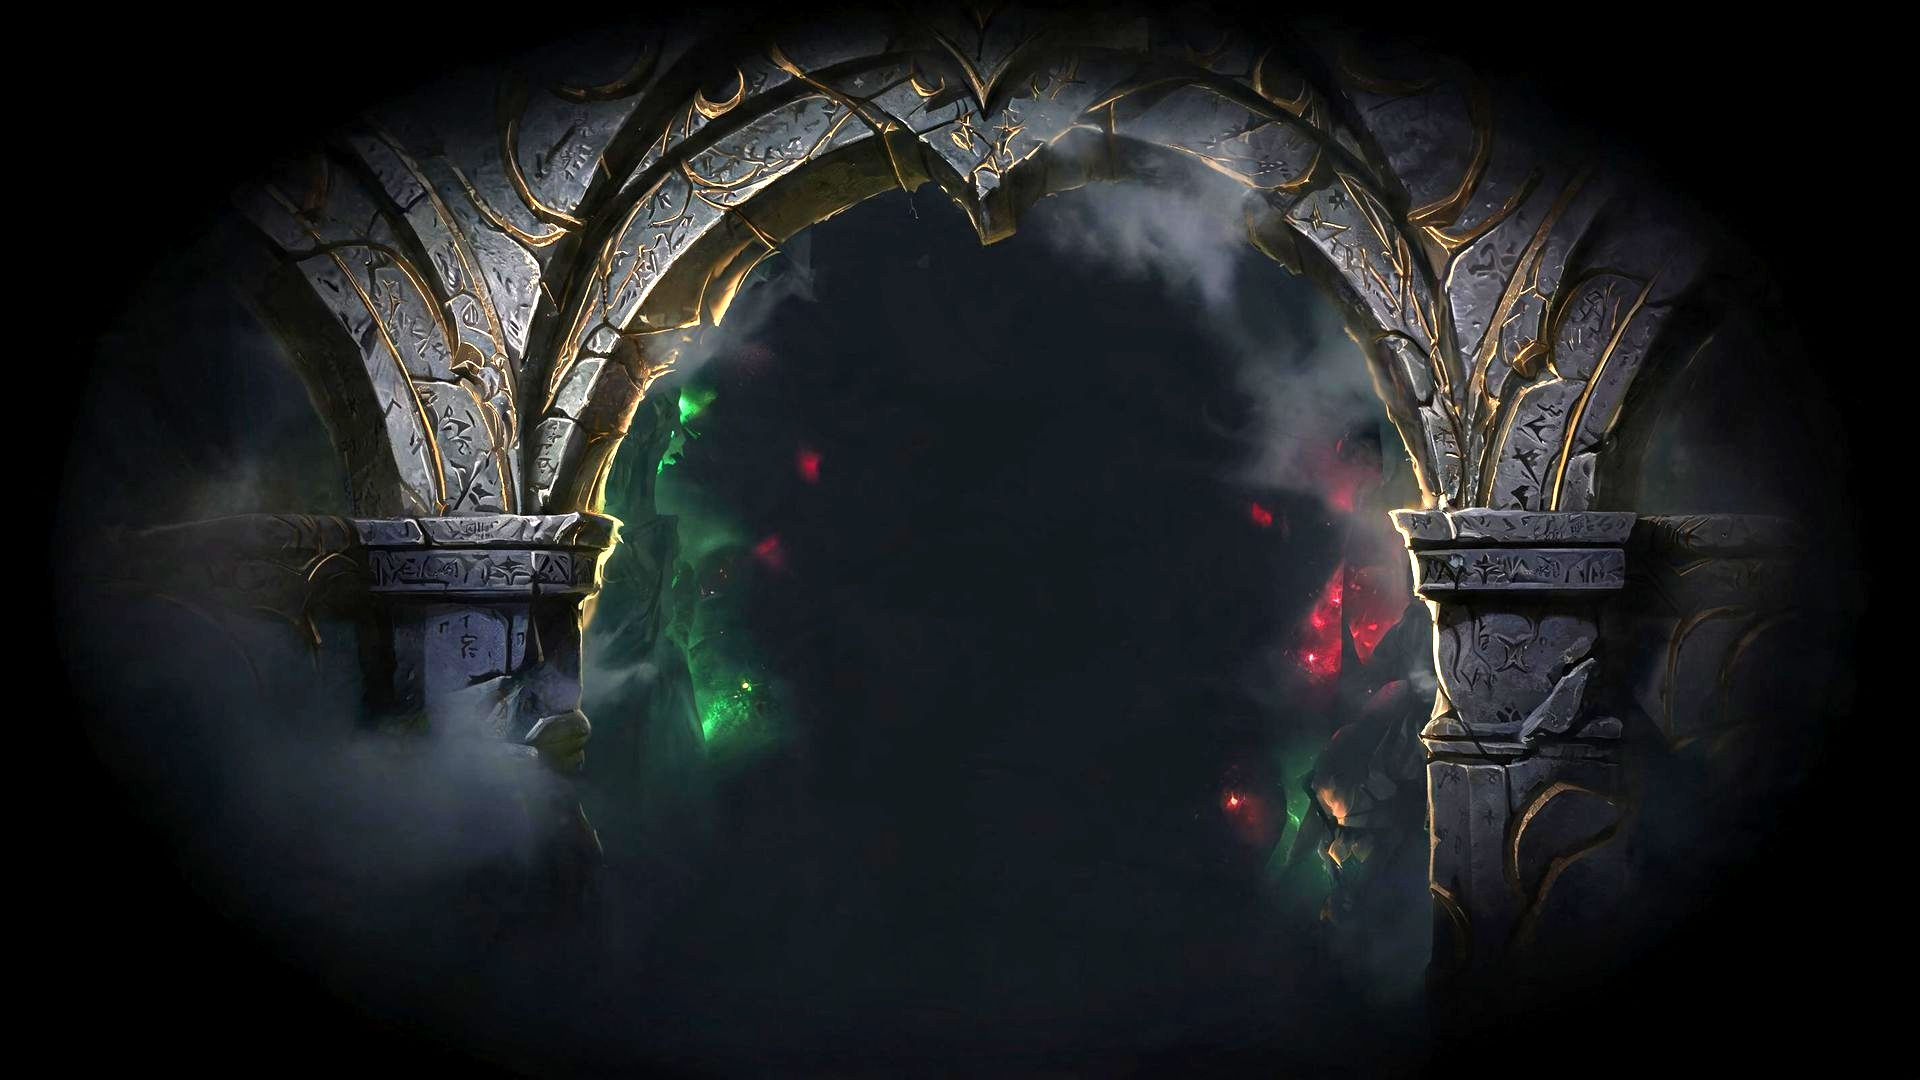
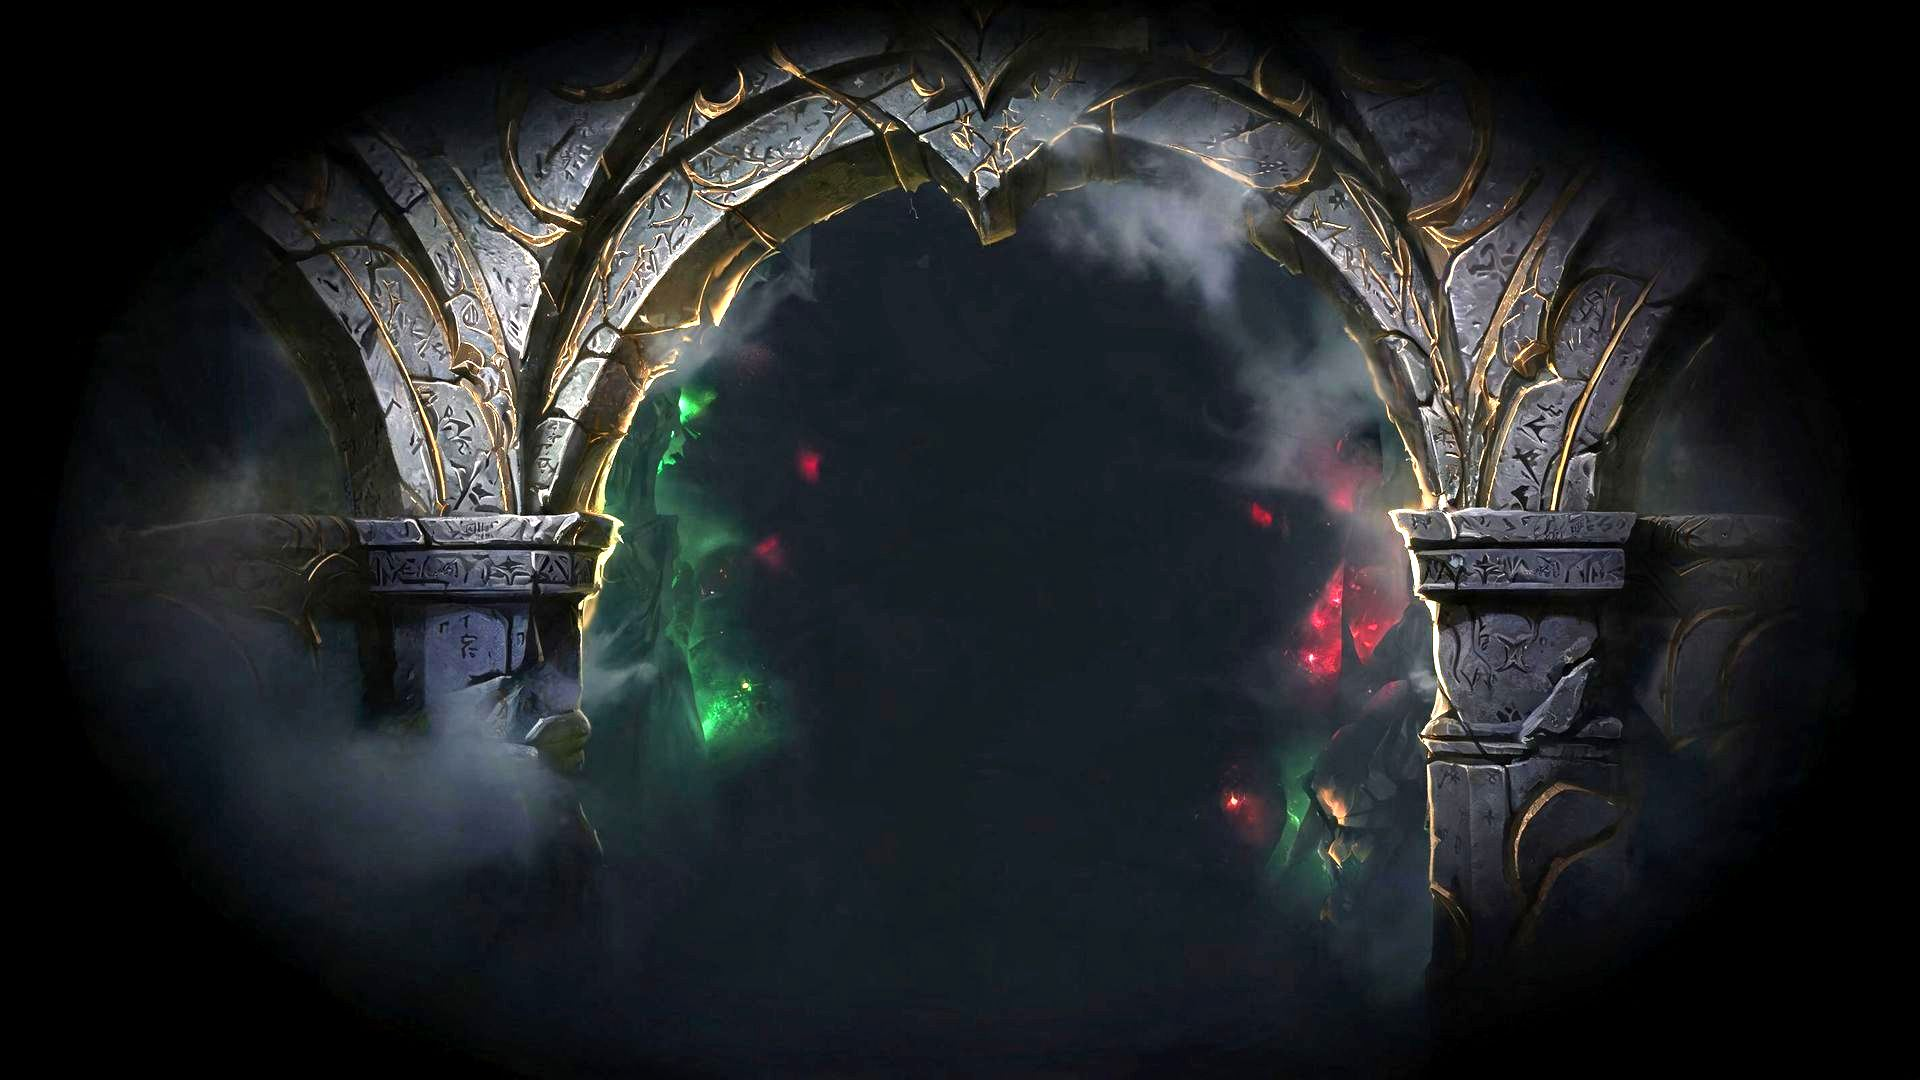
Volna 1.2.2: seamless chat, Main/Subroom naming, brighter backdrop, screen share fallbacks

diff --git a/voice-app/public/entry.js b/voice-app/public/entry.js
@@ -208,11 +208,36 @@
       }
       const pub = Object.assign({}, publish || {}, {
         screenShareEncoding: { maxBitrate: profile.bitrate, maxFramerate: profile.res.frameRate },
+        // Слои симулкаста: зритель сам выберет 720p/1080p/1440p в зависимости от экрана и канала
+        screenShareSimulcastLayers: [
+          { width: 1280, height: 720, encoding: { maxBitrate: 1500000, maxFramerate: 30 } },
+          { width: 1920, height: 1080, encoding: { maxBitrate: 3500000, maxFramerate: 60 } },
+          { width: 2560, height: 1440, encoding: { maxBitrate: 6000000, maxFramerate: 60 } },
+        ],
         degradationPreference: profile.degrade || 'maintain-resolution',
       });
       lastScreenProfile = profile.label;
       toast('Показ экрана: ' + profile.label);
-      return setScreen(on, cap, pub);
+      try {
+        return await setScreen(on, cap, pub);
+      } catch (e) {
+        // Запасные варианты: браузер или сервер могут не принять симулкаст/системный звук.
+        // Тогда показываем экран простым способом — главное, чтобы демонстрация включилась.
+        try {
+          const simple = Object.assign({}, pub);
+          delete simple.screenShareSimulcastLayers;
+          return await setScreen(on, cap, simple);
+        } catch (e2) {
+          if (cap.audio) {
+            const simpleNoAudio = Object.assign({}, pub, { audio: false });
+            delete simpleNoAudio.screenShareSimulcastLayers;
+            toast('Системный звук недоступен — показываю без него');
+            return await setScreen(on, Object.assign({}, cap, { audio: false }), simpleNoAudio);
+          }
+          toast('Не удалось включить демонстрацию: ' + ((e && e.message) || e), 'error');
+          throw e;
+        }
+      }
     };
   }
 
@@ -376,7 +401,7 @@
         if (hint) hint.textContent = '';
         // имя комнаты для человека: подкомната и текстовая комната выглядят понятно
         const title = $('#roomTitle');
-        if (title) title.textContent = shortName(currentRoom());
+        if (title) title.textContent = 'Volna';
         // В чате сразу видно, чей он: общей комнаты или конкретной подкомнаты
         const chatTitle = $('#chatTitle');
         if (chatTitle) {
@@ -672,6 +697,45 @@
     el.classList.toggle('hidden', !on);
     clearTimeout(SWITCH.timer);
     if (on) SWITCH.timer = setTimeout(() => switchOverlay(false), 9000);
+  }
+
+  /* ---- 6.1a. Счётчик участников без постоянного «до N» ---- */
+
+  const CAP = { max: 0 };
+
+  function pluralPeople(n) {
+    const mod10 = n % 10;
+    const mod100 = n % 100;
+    if (mod10 === 1 && mod100 !== 11) return 'участник';
+    if (mod10 >= 2 && mod10 <= 4 && (mod100 < 12 || mod100 > 14)) return 'участника';
+    return 'участников';
+  }
+
+  /** В шапке только число людей; о лимите говорим лишь когда он достигнут. */
+  function tidyRoomMeta() {
+    const el = $('#roomMeta');
+    if (!el) return;
+    const text = String(el.textContent || '');
+    const found = text.match(/(\d+)/);
+    if (!found) return;
+    const count = Number(found[1]);
+    let short = count + ' ' + pluralPeople(count);
+    if (CAP.max && count >= CAP.max) short += ' · комната заполнена';
+    if (text !== short) el.textContent = short;
+  }
+
+  function watchRoomMeta() {
+    try {
+      fetch('/api/config').then((r) => r.json()).then((cfg) => {
+        CAP.max = Number(cfg && cfg.maxParticipants) || 0;
+        tidyRoomMeta();
+      }).catch(() => undefined);
+    } catch (e) { /* не критично */ }
+
+    const el = $('#roomMeta');
+    if (!el || !('MutationObserver' in window)) return;
+    new MutationObserver(tidyRoomMeta).observe(el, { childList: true, characterData: true, subtree: true });
+    tidyRoomMeta();
   }
 
   /* ---- 6.1. Имя хоста: на машине с сервером по умолчанию «Admin» ---- */
@@ -1292,6 +1356,7 @@
       img.alt = String(name || '');
       img.className = 'chat-img';
       img.loading = 'lazy';
+      img.title = 'Двойной клик — открыть крупно';
       row.append(img);
     }
     // ссылка живёт, пока открыт чат; освобождаем при закрытии вкладки
@@ -1402,6 +1467,54 @@
     }
   }
 
+
+  /* ---- 6.6b. Увеличение картинок по двойному клику ---- */
+
+  function openLightbox(src, alt) {
+    let box = document.getElementById('lightbox');
+    if (!box) {
+      box = document.createElement('div');
+      box.id = 'lightbox';
+      box.className = 'lightbox hidden';
+      box.innerHTML = '<img alt=""><button class="lightbox-close" type="button" aria-label="Закрыть">✕</button>';
+      document.body.append(box);
+      box.addEventListener('click', (e) => {
+        const target = e.target;
+        if (target === box || (target.classList && target.classList.contains('lightbox-close'))) {
+          box.classList.add('hidden');
+        }
+      });
+      document.addEventListener('keydown', (e) => {
+        if (e.key === 'Escape') box.classList.add('hidden');
+      });
+    }
+    const img = box.querySelector('img');
+    if (img) {
+      img.src = src;
+      img.alt = alt || '';
+    }
+    box.classList.remove('hidden');
+  }
+
+  function bindZoom() {
+    // Картинки в чате — во весь экран; демонстрация экрана — двойной клик на полноэкранный режим
+    document.addEventListener('dblclick', (e) => {
+      const img = e.target && e.target.closest ? e.target.closest('.chat-img') : null;
+      if (img && img.src) {
+        e.preventDefault();
+        openLightbox(img.src, img.alt);
+        return;
+      }
+      const stage = e.target && e.target.closest ? e.target.closest('#stageVideo') : null;
+      if (stage) {
+        e.preventDefault();
+        try {
+          if (document.fullscreenElement) document.exitFullscreen();
+          else if (stage.requestFullscreen) stage.requestFullscreen();
+        } catch (err) { /* браузер может запретить */ }
+      }
+    });
+  }
 
   /* ---- 6.5. Главное меню ---- */
 
@@ -1745,15 +1858,20 @@
   }
 
   function displayName(id) {
-    return roomAlias(id) || (String(id) === 'main' ? 'Главная' : prettyName(id));
+    return roomAlias(id) || shortName(id);
   }
 
-  /** Короткое имя для узких мест интерфейса: «Главная» или имя подкомнаты. */
+  /** Короткое имя для узких мест: «Main» или «Subroom N» по порядку в списке. */
   function shortName(id) {
     const alias = roomAlias(id);
     if (alias) return alias;
-    if (isSubRoom(id)) return String(id).split(SUB_SEP).pop();
-    return String(id || 'main') === 'main' ? 'Главная' : String(id);
+    if (isSubRoom(id)) {
+      const parent = parentOf(id);
+      const name = String(id).split(SUB_SEP).pop();
+      const index = subsOf(parent).indexOf(name);
+      return 'Subroom ' + (index >= 0 ? index + 1 : 1);
+    }
+    return String(id) === 'main' ? 'Main' : String(id);
   }
 
   /** Поле «новая подкомната» прямо в списке комнат: без диалогов и перезагрузок. */
@@ -1960,6 +2078,23 @@
   /* ═══════════ 5. Запуск ═══════════ */
   function initEntry() {
     document.documentElement.dataset.volnaEntry = '1'; // отметка для selftest.html и отладки
+    // диагностика демонстрации экрана: только по ?debug=1
+    try {
+      if (/[?&]debug=1/.test(location.search)) {
+        window.addEventListener('unhandledrejection', (e) => {
+          window.__lastRejection = String((e.reason && e.reason.message) || e.reason);
+        });
+        const gdm = navigator.mediaDevices && navigator.mediaDevices.getDisplayMedia;
+        if (gdm) {
+          navigator.mediaDevices.getDisplayMedia = function (...args) {
+            return gdm.apply(this, args).catch((err) => {
+              window.__gdmError = String(err && err.name) + ': ' + String(err && err.message);
+              throw err;
+            });
+          };
+        }
+      }
+    } catch (e) { /* не критично */ }
     watchJoinScreen();
     guardDoubleJoin();
     bindBanner();
@@ -1967,6 +2102,8 @@
     bindMenu();
     bindChatFiles();
     bindSubroomActions();
+    bindZoom();
+    watchRoomMeta();
     // Чат виден сразу: он часть комнаты, а не спрятанная за кнопкой панель
     if (store.get('chat', '1') !== '0') chatShow(true);
     loadBooks();

diff --git a/voice-app/public/styles.css b/voice-app/public/styles.css
@@ -29,7 +29,7 @@ body{
   font:15px/1.45 var(--font-ui);
   background:
     radial-gradient(1200px 700px at 12% -10%, rgba(142,255,3,.12), transparent 62%),
-    linear-gradient(rgba(5,7,4,.28), rgba(5,7,4,.58)),
+    linear-gradient(rgba(5,7,4,.16), rgba(5,7,4,.40)),
     url('bg/kadran.jpg') center/cover no-repeat fixed,
     var(--bg);
   -webkit-font-smoothing:antialiased;
@@ -48,8 +48,9 @@ button,input,select{font:inherit;color:inherit}
 .join{min-height:100dvh;display:grid;place-items:center;padding:24px}
 .join-card{
   width:min(520px,100%);display:grid;gap:16px;padding:26px;
-  background:linear-gradient(180deg,rgba(255,255,255,.025),transparent 45%),var(--panel);
+  background:linear-gradient(180deg,rgba(255,255,255,.03),transparent 45%),rgba(10,14,10,.76);
   border:1px solid var(--line);border-radius:20px;box-shadow:var(--shadow);
+  backdrop-filter:blur(10px);-webkit-backdrop-filter:blur(10px);
 }
 .brand{display:flex;align-items:center;gap:12px}
 .logo{width:40px;height:40px;flex:none;color:var(--accent);fill:currentColor}
@@ -116,6 +117,11 @@ button,input,select{font:inherit;color:inherit}
 .chan-row.current{background:var(--panel2);color:var(--text);border-color:var(--line2)}
 .chan-ok{border:0;background:transparent;color:var(--accent);cursor:pointer;font-size:14px;padding:0 4px}
 /* плашка на время перехода между комнатами */
+.lightbox{position:fixed;inset:0;z-index:10000;display:grid;place-items:center;background:rgba(0,0,0,.92);padding:24px}
+.lightbox img{max-width:96vw;max-height:90vh;border-radius:14px;box-shadow:0 30px 80px rgba(0,0,0,.7);cursor:zoom-out}
+.lightbox.hidden{display:none}
+.lightbox-close{position:absolute;top:18px;right:20px;width:36px;height:36px;border-radius:10px;border:1px solid rgba(255,255,255,.18);background:rgba(20,24,18,.8);color:#e9f0e4;font-size:16px;cursor:pointer}
+.lightbox-close:hover{border-color:var(--accent);color:var(--accent)}
 .switch-overlay{position:fixed;inset:0;z-index:9999;display:grid;place-items:center;background:rgba(10,9,8,.97);color:var(--muted);font:12px var(--font-display);letter-spacing:.16em;text-transform:uppercase}
 .switch-overlay.hidden{display:none}
 .chan-row.editing{background:var(--panel2);border-color:var(--line2);padding:3px 6px}
@@ -140,6 +146,8 @@ button,input,select{font:inherit;color:inherit}
   backdrop-filter:none;-webkit-backdrop-filter:none;
   display:flex;flex-direction:column;gap:10px;
 }
+/* демонстрация занимает свободное место над чатом, а не 100% высоты */
+.stage>.stage-wrap{flex:1 1 auto;height:auto;min-height:0}
 .side{display:none !important}
 .grid{display:grid;grid-template-columns:repeat(auto-fill,minmax(150px,1fr));gap:12px;align-content:start}
 .tile{
@@ -318,9 +326,9 @@ button,input,select{font:inherit;color:inherit}
 
 .chat-panel{
   position:static;width:min(760px,100%);margin:auto auto 0;
-  padding:10px 12px;border:1px solid var(--line);border-radius:14px;
-  background:rgba(10,14,9,.66);backdrop-filter:var(--glass);-webkit-backdrop-filter:var(--glass);
-  box-shadow:var(--shadow), inset 0 1px 0 rgba(255,255,255,.04);
+  padding:10px 0 0;border:0;border-top:1px solid rgba(142,255,3,.10);border-radius:0;
+  background:linear-gradient(180deg,rgba(8,11,8,0),rgba(8,11,8,.42));
+  backdrop-filter:none;-webkit-backdrop-filter:none;box-shadow:none;
   display:flex;flex-direction:column;gap:6px;flex:0 1 auto;min-height:0;max-height:44%;
 }
 .chat-title{font-family:var(--font-display);font-weight:700;font-size:12px;letter-spacing:0;color:var(--muted);white-space:nowrap;overflow:hidden;text-overflow:ellipsis}

diff --git a/deploy/update-notes-122.py b/deploy/update-notes-122.py
@@ -1,0 +1,41 @@
+"""Заметки к релизу 1.2.2 (английский)."""
+import io
+import re
+
+PATH = "deploy/release-notes.md"
+with io.open(PATH, encoding="utf-8") as fh:
+    text = fh.read()
+
+text = re.sub(
+    r"^# Volna .*$",
+    "# Volna 1.2.2 — seamless chat, clearer room naming, brighter backdrop",
+    text,
+    count=1,
+    flags=re.M,
+)
+
+BLOCK = (
+    "## What's new in 1.2.2\n"
+    "\n"
+    "- **Room naming is explicit.** The page title reads **Volna**, the current room is shown as\n"
+    "  **Main** or **Subroom 1 / Subroom 2 …** — a parent name never leaks into a child,\n"
+    "  every entry carries its own label.\n"
+    "- **Seamless chat.** The panel lost its border and background card: it fades into the stage\n"
+    "  and stays visible for every participant.\n"
+    "- **Brighter backdrop** on both the room and the sign-in screen; the sign-in card is\n"
+    "  semi-transparent so the artwork shows through.\n"
+    "- **Screen sharing hardened.** If the system refuses to capture desktop audio or the server\n"
+    "  rejects simulcast layers, the app falls back automatically (video-only, then plain publish)\n"
+    "  instead of failing silently.\n"
+    "- **1440p60 viewing.** Screen share publishes 720p / 1080p / 1440p simulcast layers;\n"
+    "  a viewer gets the top layer on full screen (double-click the shared video).\n"
+    "\n"
+)
+
+if "What's new in 1.2.2" not in text:
+    text = text.replace("## What's new", BLOCK + "## What's new", 1)
+
+with io.open(PATH, "w", encoding="utf-8") as fh:
+    fh.write(text)
+
+print("заголовок:", text.splitlines()[0])

diff --git a/deploy/release-notes.md b/deploy/release-notes.md
@@ -1,7 +1,22 @@
-# Volna 1.2.1 — centered chat, instant room switching, English docs
+# Volna 1.2.2 — seamless chat, clearer room naming, brighter backdrop
 
 Self-hosted voice rooms with screen sharing. This release is about the look and feel:
 a new visual language, a Discord-style channel list, and a chat that lives inside the room.
+
+## What's new in 1.2.2
+
+- **Room naming is explicit.** The page title reads **Volna**, the current room is shown as
+  **Main** or **Subroom 1 / Subroom 2 …** — a parent name never leaks into a child,
+  every entry carries its own label.
+- **Seamless chat.** The panel lost its border and background card: it fades into the stage
+  and stays visible for every participant.
+- **Brighter backdrop** on both the room and the sign-in screen; the sign-in card is
+  semi-transparent so the artwork shows through.
+- **Screen sharing hardened.** If the system refuses to capture desktop audio or the server
+  rejects simulcast layers, the app falls back automatically (video-only, then plain publish)
+  instead of failing silently.
+- **1440p60 viewing.** Screen share publishes 720p / 1080p / 1440p simulcast layers;
+  a viewer gets the top layer on full screen (double-click the shared video).
 
 ## What's new in 1.2.1
 
@@ -75,8 +90,8 @@ a new visual language, a Discord-style channel list, and a chat that lives insid
 SHA-256:
 
 ```
-bcfcf2a8342d983f0ef7e8a3721618bd6d99ffeea3585a65dcaab1a422997bbd  volna-voice-app.zip
-555811ac7aef4e66313cc720d1b5e10072e5dd29eda3083ef004c2fc664725b7  volna-voice-app-linux.tar.gz
+6b054cbe1bea6bf5ad6253bdbc9158f297e393e4af1b512e2daa1efa35c18b1d  volna-voice-app.zip
+3d79a9802c1dfb244f34b395de9c71d596b787b85738aba33f5f9c211b1ae280  volna-voice-app-linux.tar.gz
 ```
 
 ## Quick start (Windows)
